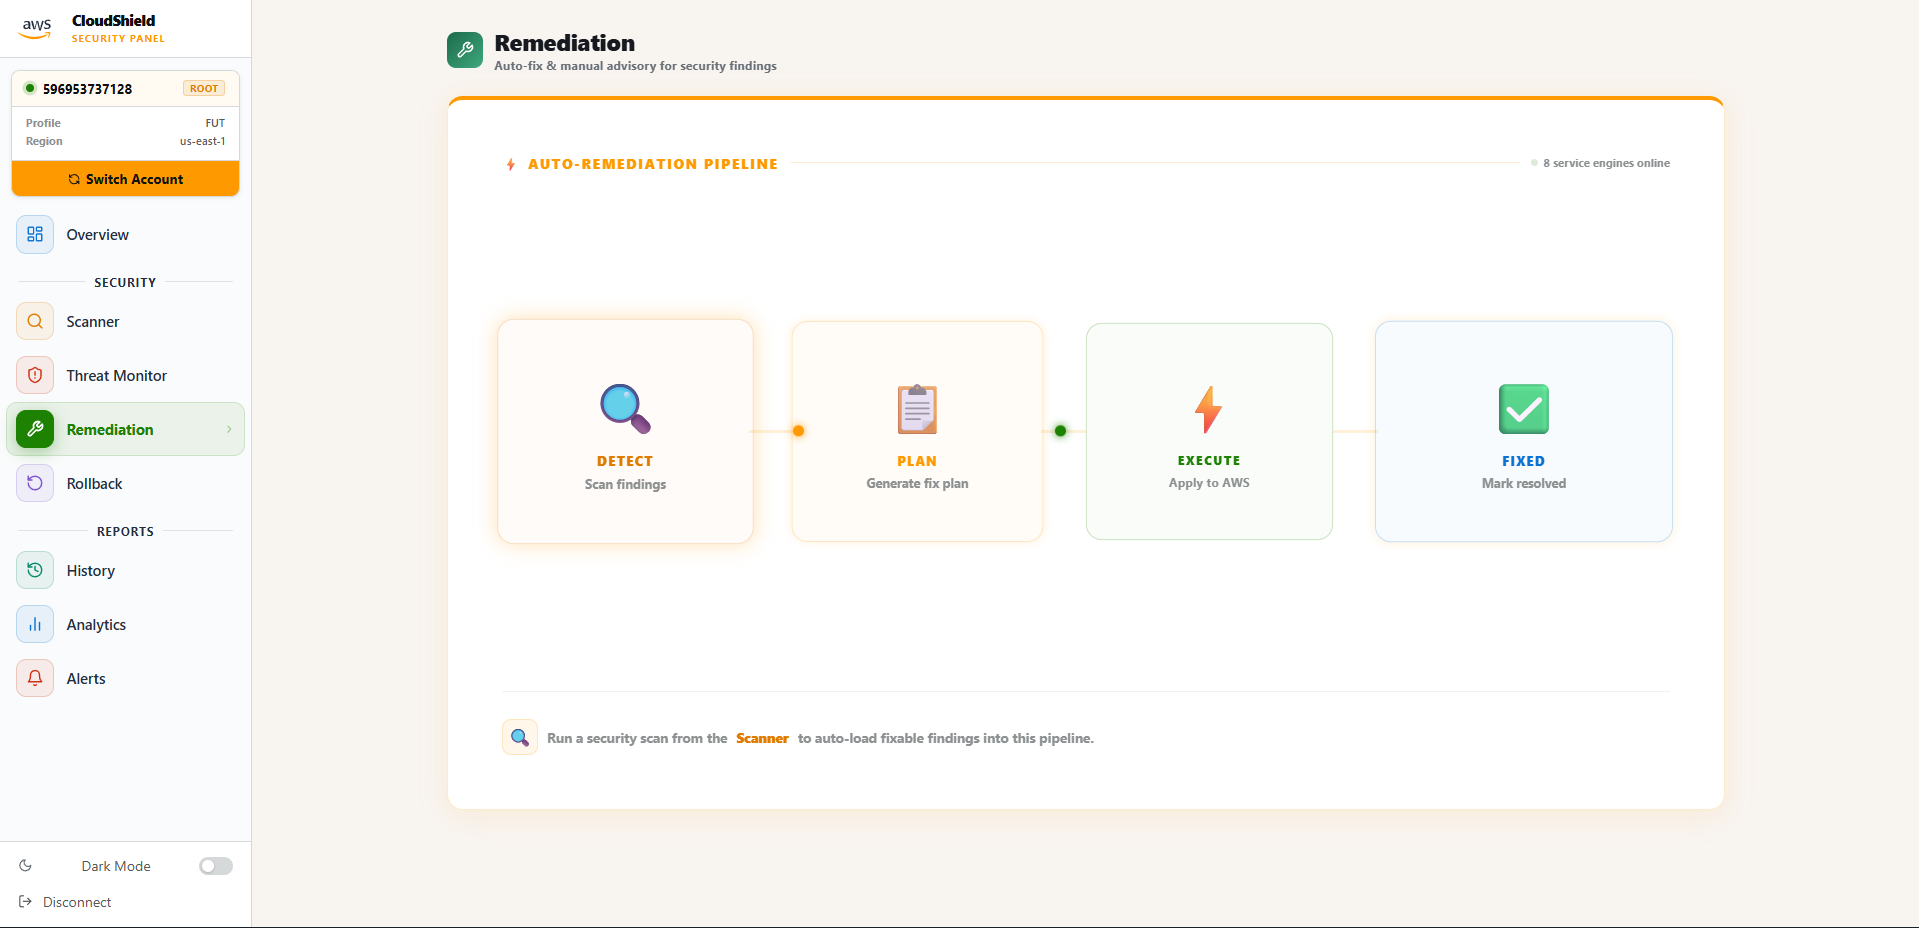
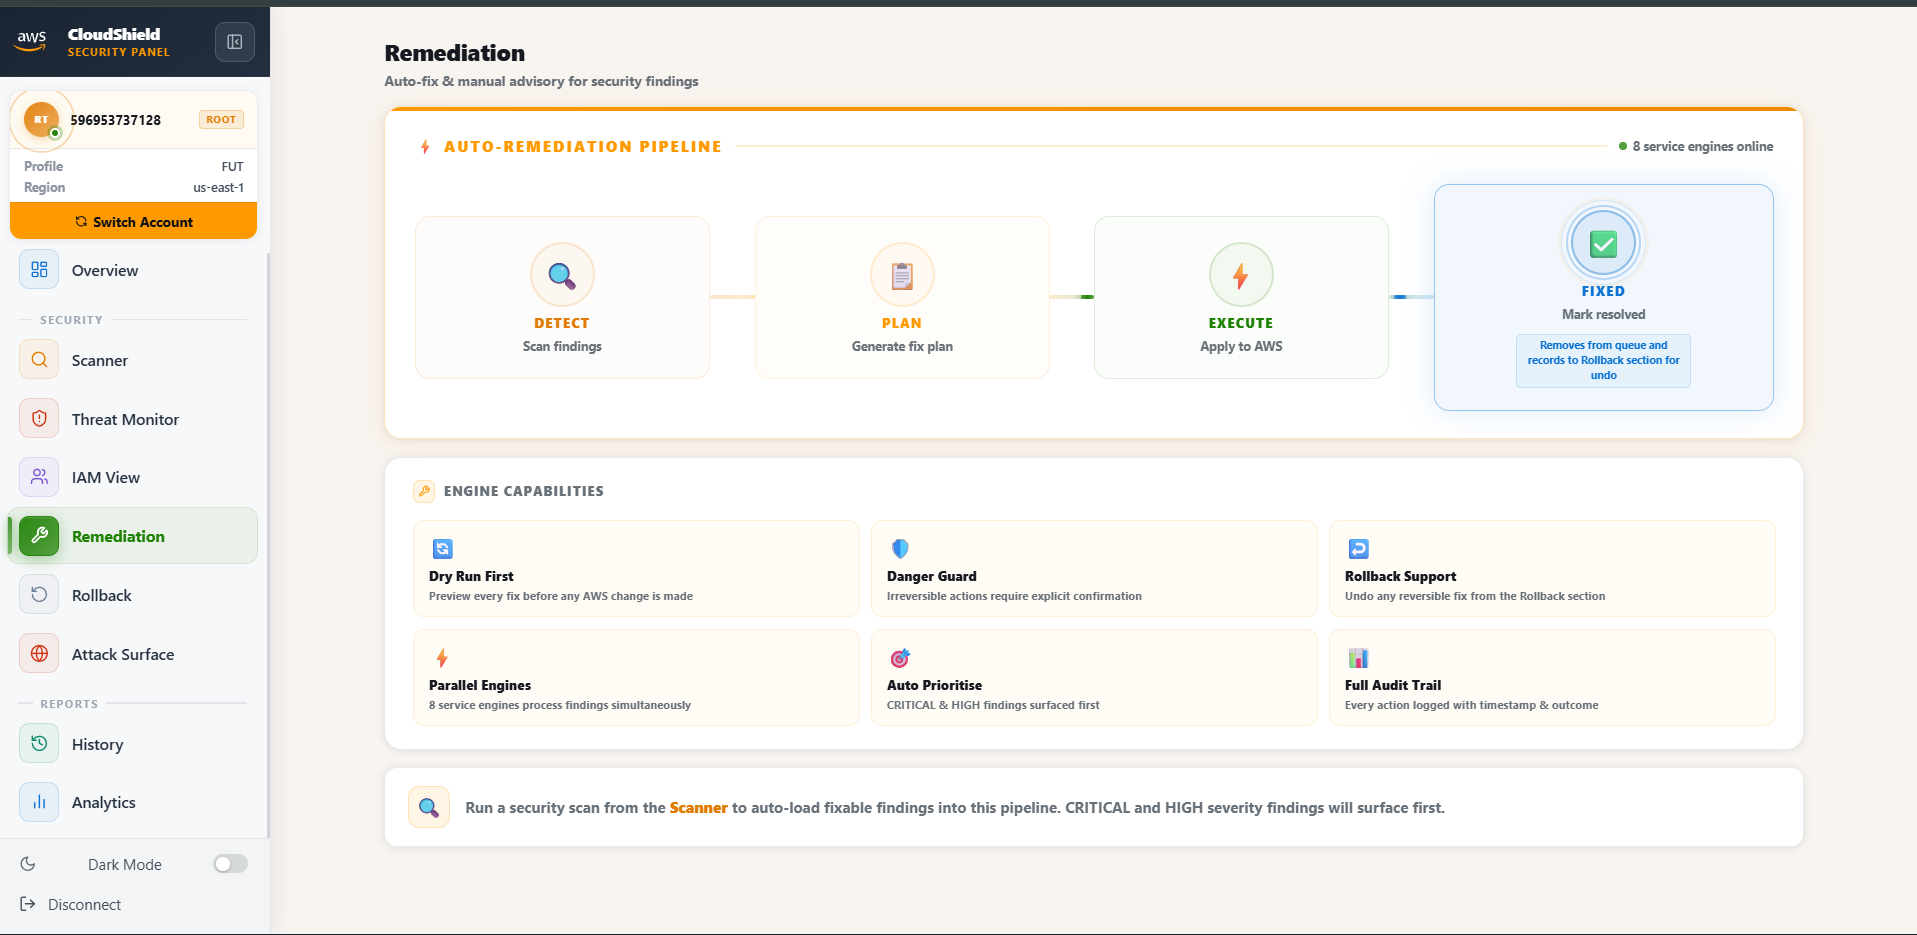
docs: update README screenshots with latest redesigned UI
Updated screenshots:
- dashboard_overview.png   - new animated overview section
- scanner_page.png         - new scanner idle with Security Domains card
- threats_page.png         - new radar + 2-col monitor redesign
- iam_view_page.png        - new orbital idle + landscape identity cards
- remediation_page.png     - new animated pipeline + feature grid
- attack_surface_page.png  - new 2-col globe radar + category rows

Removed:
- alerts_page.png (consolidated into overview)

diff --git a/app/ui/dist/index.html b/app/ui/dist/index.html
@@ -8,7 +8,7 @@
     <link rel="preconnect" href="https://fonts.googleapis.com">
     <link rel="preconnect" href="https://fonts.gstatic.com" crossorigin>
     <link href="https://fonts.googleapis.com/css2?family=Space+Mono:wght@400;700&family=DM+Sans:wght@300;400;500;600&display=swap" rel="stylesheet">
-    <script type="module" crossorigin src="/assets/index-xQ2fGrDB.js"></script>
+    <script type="module" crossorigin src="/assets/index-C2Strt86.js"></script>
     <link rel="stylesheet" crossorigin href="/assets/index-DhAF3jTQ.css">
   </head>
   <body>
